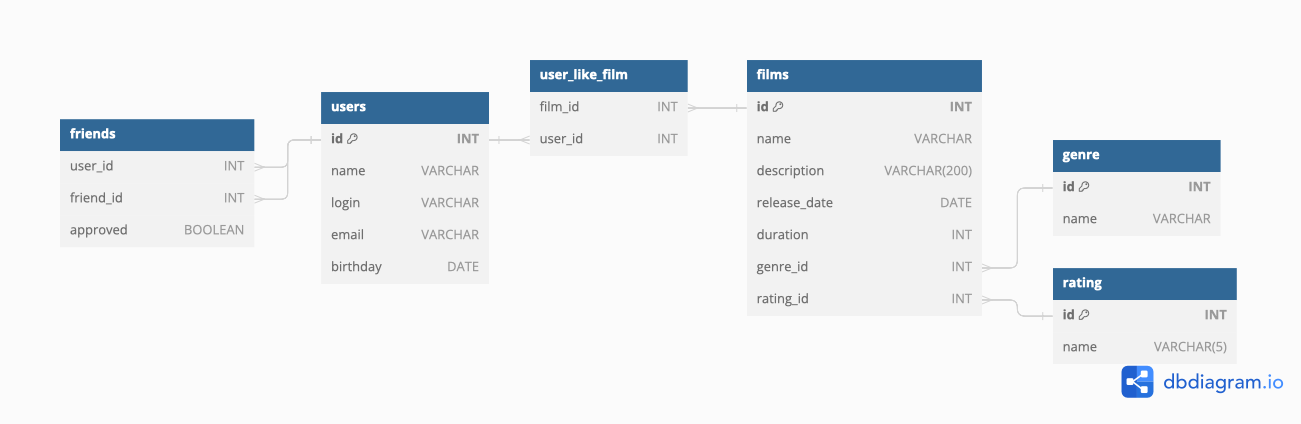
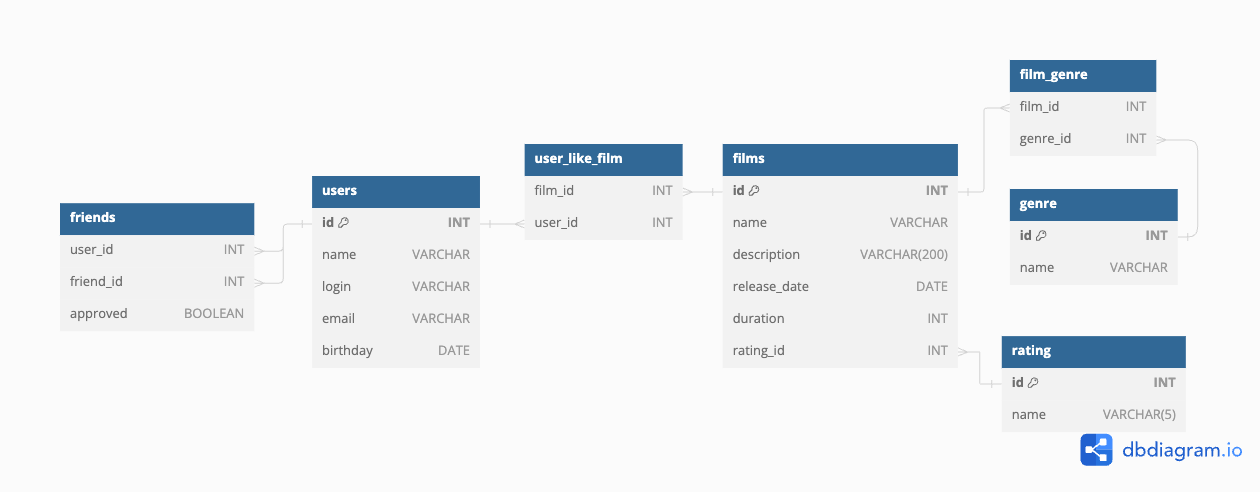
Fixed data model. Added linked table film_genre

diff --git a/README.md b/README.md
@@ -67,6 +67,15 @@
 
 &nbsp;
 
+- ### film_genre - Stores the associations between films and their corresponding genres
+
+| Column     | Type | Constraint | Description     |
+|------------|------|------------|-----------------|
+| `film_id`  | INT  | -          | ID of the film  |
+| `genre_id` | INT  | -          | ID of the genre |
+
+&nbsp;
+
 ---
 
 ## Sample Queries
@@ -86,9 +95,9 @@
 - Get films with a specific genre:
 
 ```sql
-   SELECT f.* FROM films f
-     JOIN genre g ON f.genre_id = g.id
-    WHERE g.name = 'Мультфильм';
+   SELECT DISTINCT f.name FROM films f
+     JOIN film_genre fg ON f.id = fg.film_id
+    WHERE fg.genre_id in (SELECT id FROM genre WHERE name = 'Мультфильм');
 ```
 
 - Get all friendships where the user initiated the friend request
